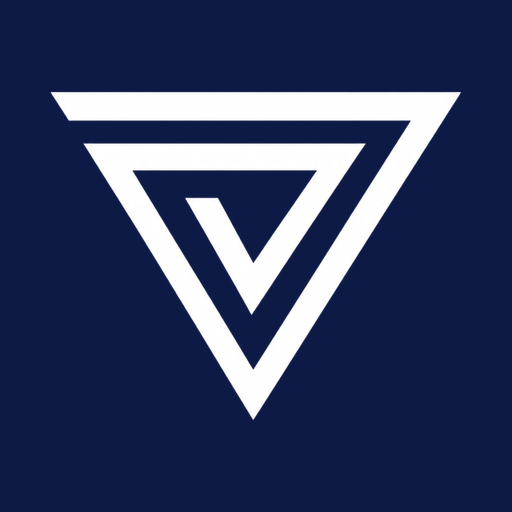
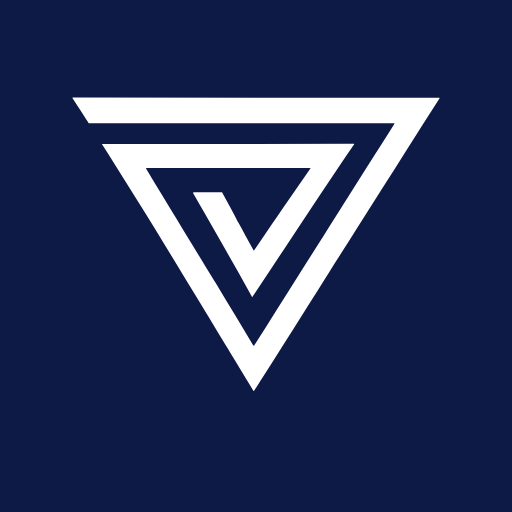
Icône d'onglet EVO vectorielle (SVG) et mieux cadrée, versions PNG nettes
Claude-Session: https://claude.ai/code/session_01Bdd3ewDnMfsc4ddiCa5WvB

Changed region(s): [[0.0938, 0.1562, 0.9062, 0.8125]]

diff --git a/src/app/espace/layout.tsx b/src/app/espace/layout.tsx
@@ -6,7 +6,7 @@ const display = Instrument_Serif({ variable: "--q-display", subsets: ["latin"], 
 const body = Manrope({ variable: "--q-body", subsets: ["latin"], weight: ["400", "500", "600", "700"] });
 
 export const metadata: Metadata = {
-  icons: { icon: "/favicon.ico", apple: "/evo-apple-icon.png" },
+  icons: { icon: [{ url: "/evo-icon.svg", type: "image/svg+xml" }, { url: "/evo-icon-96.png", sizes: "96x96", type: "image/png" }], apple: "/evo-apple-icon.png" },
   title: "Mon espace EVO",
   description: "Ton parcours d'accompagnement EVO : progression, livrables et calls.",
   robots: { index: false, follow: false },

diff --git a/src/app/mentions-legales/layout.tsx b/src/app/mentions-legales/layout.tsx
@@ -6,7 +6,7 @@ const display = Instrument_Serif({ variable: "--q-display", subsets: ["latin"], 
 const body = Manrope({ variable: "--q-body", subsets: ["latin"], weight: ["400", "500", "600", "700"] });
 
 export const metadata: Metadata = {
-  icons: { icon: "/favicon.ico", apple: "/evo-apple-icon.png" },
+  icons: { icon: [{ url: "/evo-icon.svg", type: "image/svg+xml" }, { url: "/evo-icon-96.png", sizes: "96x96", type: "image/png" }], apple: "/evo-apple-icon.png" },
   title: "Mentions légales · EVO Incubator",
   description: "Mentions légales du site evo-inc.fr, édité par Hoguet Capital.",
 };

diff --git a/src/app/layout.tsx b/src/app/layout.tsx
@@ -22,6 +22,7 @@ export const metadata: Metadata = {
     title: "Virements",
   },
   icons: {
+    icon: [{ url: "/evo-icon.svg", type: "image/svg+xml" }, { url: "/evo-icon-96.png", sizes: "96x96", type: "image/png" }],
     apple: "/apple-icon.png",
   },
 };
